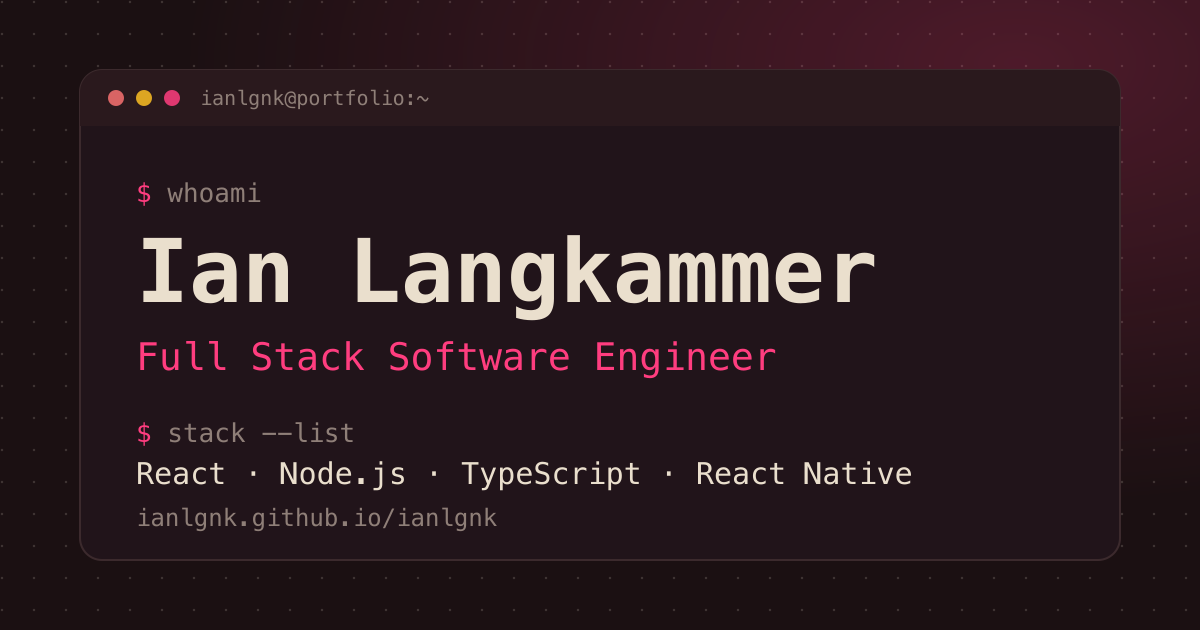
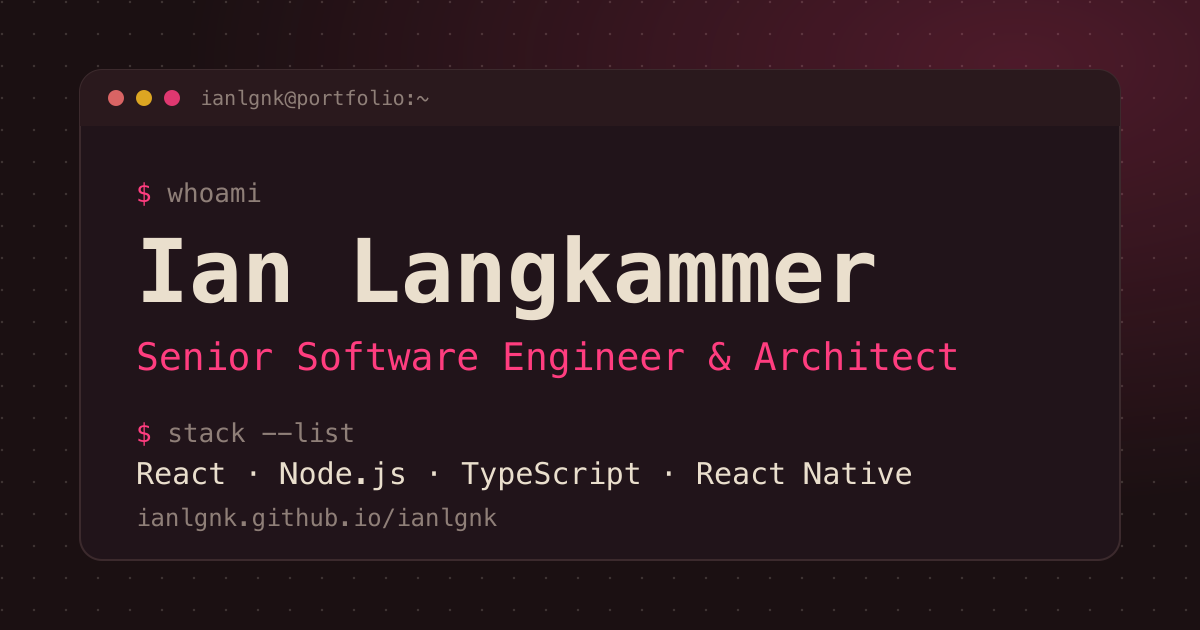
✨ feat: alinha site ao currículo (cargos, datas, stacks e nome do projeto)
- Cargos, períodos e stacks da experiência conforme o currículo em inglês
- Visão Tecnologia agora jun–out/2021 (5 meses); Saúde Agora júnior até set/2022
- Resumo, formação (IFNMG), título/descrição, footer e OG image com o cargo
  "Senior Software Engineer & Architect"
- Projeto 2 passa a se chamar "Pedro Porto Studios"
- Testes pinam os valores do currículo e a sincronia dos HTMLs com messages.ts

Changed region(s): [[0.0925, 0.5429, 0.8017, 0.6032]]

diff --git a/src/locales/cv-alignment.test.ts b/src/locales/cv-alignment.test.ts
@@ -1,0 +1,62 @@
+import { describe, expect, it } from 'vitest'
+
+import { experience } from '@/data/experience'
+
+import { messages } from './messages'
+
+const en = messages['en-US']
+const pt = messages['pt-BR']
+
+describe('experience copy matches the English résumé', () => {
+  it('uses the résumé roles', () => {
+    const roles = Object.fromEntries(Object.entries(en.experience.items).map(([id, i]) => [id, i.role]))
+    expect(roles).toEqual({
+      'beerpass-senior': 'Senior Software Engineer & Architect',
+      'beerpass-pleno': 'Software Engineer & Architect',
+      'saude-pleno': 'Software Engineer',
+      'saude-junior': 'Junior Software Engineer',
+      'visao-junior': 'Web Developer',
+    })
+  })
+
+  it('uses the résumé periods and durations', () => {
+    const periods = Object.fromEntries(Object.entries(en.experience.items).map(([id, i]) => [id, i.period]))
+    expect(periods).toEqual({
+      'beerpass-senior': 'Jan/2026 – present',
+      'beerpass-pleno': 'May/2023 – Jan/2026',
+      'saude-pleno': 'Oct/2022 – Apr/2023',
+      'saude-junior': 'Oct/2021 – Sep/2022',
+      'visao-junior': 'Jun/2021 – Oct/2021',
+    })
+    expect(en.experience.items['visao-junior'].duration).toBe('5 months')
+    expect(pt.experience.items['visao-junior'].duration).toBe('5 meses')
+    expect(pt.experience.items['visao-junior'].period).toBe('Jun/2021 – Out/2021')
+    expect(pt.experience.items['saude-junior'].period).toBe('Out/2021 – Set/2022')
+  })
+
+  it('lists the résumé stacks for Beerpass Club and Saúde Agora', () => {
+    const tech = (id: string) => experience.find((e) => e.id === id)?.technologies
+    expect(tech('beerpass-senior')).toEqual(['React Native', 'TypeScript', 'Kotlin', 'Java', 'Node.js', 'Firebase', 'Expo/EAS'])
+    expect(tech('beerpass-pleno')).toEqual(['React Native', 'React', 'TypeScript', 'Node.js', 'Firebase', 'Kotlin', 'Swift'])
+    expect(tech('saude-pleno')).toEqual(['Java', 'Hibernate', 'PostgreSQL', 'Vue.js', 'JavaScript'])
+    expect(tech('saude-junior')).toEqual(['Java', 'Hibernate', 'PostgreSQL', 'Vue.js', 'JavaScript'])
+  })
+
+  it('introduces Ian as a Senior Software Engineer and Architect everywhere', () => {
+    expect(en.about.summary.startsWith('Senior Software Engineer and Architect')).toBe(true)
+    expect(pt.about.summary.startsWith('Engenheiro de Software e Arquiteto Sênior')).toBe(true)
+    expect(en.document.home.description).toContain('Senior Software Engineer & Architect')
+    expect(en.footer.whoamiOut).toContain('senior software engineer & architect')
+    for (const text of [en.about.summary, pt.about.summary, en.document.home.description, pt.document.home.description]) {
+      expect(text).not.toMatch(/full stack/i)
+    }
+  })
+
+  it('names the technical degree as in the résumé (en-US)', () => {
+    expect(en.about.education[1]).toEqual({
+      title: 'Technical Degree in Web Development (integrated with high school)',
+      institution: 'Federal Institute of Northern Minas Gerais (IFNMG)',
+      period: '2017–2019',
+    })
+  })
+})

diff --git a/src/locales/experience-messages.ts b/src/locales/experience-messages.ts
@@ -15,32 +15,32 @@ export type ExperienceMessages = {
 export const experienceMessagesPtBR: ExperienceMessages = {
   items: {
     'beerpass-senior': {
-      role: 'Engenheiro de Software Full Stack Sênior',
+      role: 'Engenheiro de Software e Arquiteto Sênior',
       period: 'Jan/2026 – atual',
       responsibilities: '',
     },
     'beerpass-pleno': {
-      role: 'Engenheiro de Software Full Stack Pleno',
+      role: 'Engenheiro de Software e Arquiteto',
       period: 'Mai/2023 – Jan/2026',
       duration: '2 anos e 9 meses',
       responsibilities: '',
     },
     'saude-pleno': {
-      role: 'Desenvolvedor Full Stack Pleno',
+      role: 'Engenheiro de Software',
       period: 'Out/2022 – Abr/2023',
       duration: '7 meses',
       responsibilities: '',
     },
     'saude-junior': {
-      role: 'Desenvolvedor Full Stack Júnior',
-      period: 'Out/2021 – Out/2022',
+      role: 'Engenheiro de Software Júnior',
+      period: 'Out/2021 – Set/2022',
       duration: '1 ano',
       responsibilities: '',
     },
     'visao-junior': {
       role: 'Desenvolvedor Web',
-      period: 'Jun/2021 – Dez/2021',
-      duration: '7 meses',
+      period: 'Jun/2021 – Out/2021',
+      duration: '5 meses',
       responsibilities:
         'Desenvolvimento web com HTML, CSS e JavaScript, além de interfaces com React e TypeScript.',
     },
@@ -50,32 +50,32 @@ export const experienceMessagesPtBR: ExperienceMessages = {
 export const experienceMessagesEnUS: ExperienceMessages = {
   items: {
     'beerpass-senior': {
-      role: 'Senior Full Stack Software Engineer',
+      role: 'Senior Software Engineer & Architect',
       period: 'Jan/2026 – present',
       responsibilities: '',
     },
     'beerpass-pleno': {
-      role: 'Mid-level Full Stack Software Engineer',
+      role: 'Software Engineer & Architect',
       period: 'May/2023 – Jan/2026',
       duration: '2 years 9 months',
       responsibilities: '',
     },
     'saude-pleno': {
-      role: 'Mid-level Full Stack Developer',
+      role: 'Software Engineer',
       period: 'Oct/2022 – Apr/2023',
       duration: '7 months',
       responsibilities: '',
     },
     'saude-junior': {
-      role: 'Junior Full Stack Developer',
-      period: 'Oct/2021 – Oct/2022',
+      role: 'Junior Software Engineer',
+      period: 'Oct/2021 – Sep/2022',
       duration: '1 year',
       responsibilities: '',
     },
     'visao-junior': {
       role: 'Web Developer',
-      period: 'Jun/2021 – Dec/2021',
-      duration: '7 months',
+      period: 'Jun/2021 – Oct/2021',
+      duration: '5 months',
       responsibilities:
         'Web development with HTML, CSS, and JavaScript, plus interfaces with React and TypeScript.',
     },

diff --git a/sobre/index.html b/sobre/index.html
@@ -8,23 +8,23 @@
           document.documentElement.lang = "pt-BR";
           document.title = "Sobre · Ian Langkammer";
           var d = document.querySelector('meta[name="description"]');
-          if (d) d.setAttribute("content", "Trajetória, experiência e skills de Ian Langkammer, Engenheiro de Software Full Stack.");
+          if (d) d.setAttribute("content", "Trajetória, experiência e skills de Ian Langkammer, Engenheiro de Software e Arquiteto Sênior.");
         }
       } catch (_) {}
     </script>
     <link rel="icon" type="image/svg+xml" href="%BASE_URL%favicon.svg" />
     <meta name="viewport" content="width=device-width, initial-scale=1.0" />
     <meta name="theme-color" content="#1b1012" />
-    <meta name="description" content="Background, experience and skills of Ian Langkammer, Full Stack Software Engineer." />
+    <meta name="description" content="Background, experience and skills of Ian Langkammer, Senior Software Engineer &amp; Architect." />
     <meta property="og:type" content="website" />
     <meta property="og:site_name" content="Ian Langkammer" />
     <meta property="og:title" content="About · Ian Langkammer" />
-    <meta property="og:description" content="Background, experience and skills of Ian Langkammer, Full Stack Software Engineer." />
+    <meta property="og:description" content="Background, experience and skills of Ian Langkammer, Senior Software Engineer &amp; Architect." />
     <meta property="og:url" content="https://ianlgnk.github.io/ianlgnk/sobre/" />
     <meta property="og:image" content="https://ianlgnk.github.io/ianlgnk/og-image.png" />
     <meta property="og:image:width" content="1200" />
     <meta property="og:image:height" content="630" />
-    <meta property="og:image:alt" content="Ian Langkammer, Full Stack Software Engineer" />
+    <meta property="og:image:alt" content="Ian Langkammer, Senior Software Engineer &amp; Architect" />
     <meta name="twitter:card" content="summary_large_image" />
     <link rel="preconnect" href="https://fonts.googleapis.com" />
     <link rel="preconnect" href="https://fonts.gstatic.com" crossorigin />

diff --git a/index.html b/index.html
@@ -8,23 +8,23 @@
           document.documentElement.lang = "pt-BR";
           document.title = "Ian Langkammer · Portfólio";
           var d = document.querySelector('meta[name="description"]');
-          if (d) d.setAttribute("content", "Portfólio de Ian Langkammer — Engenheiro de Software Full Stack, Belo Horizonte.");
+          if (d) d.setAttribute("content", "Portfólio de Ian Langkammer — Engenheiro de Software e Arquiteto Sênior, Belo Horizonte.");
         }
       } catch (_) {}
     </script>
     <link rel="icon" type="image/svg+xml" href="%BASE_URL%favicon.svg" />
     <meta name="viewport" content="width=device-width, initial-scale=1.0" />
     <meta name="theme-color" content="#1b1012" />
-    <meta name="description" content="Portfolio of Ian Langkammer — Full Stack Software Engineer, Belo Horizonte." />
+    <meta name="description" content="Portfolio of Ian Langkammer — Senior Software Engineer &amp; Architect, Belo Horizonte." />
     <meta property="og:type" content="website" />
     <meta property="og:site_name" content="Ian Langkammer" />
     <meta property="og:title" content="Ian Langkammer · Portfolio" />
-    <meta property="og:description" content="Portfolio of Ian Langkammer — Full Stack Software Engineer, Belo Horizonte." />
+    <meta property="og:description" content="Portfolio of Ian Langkammer — Senior Software Engineer &amp; Architect, Belo Horizonte." />
     <meta property="og:url" content="https://ianlgnk.github.io/ianlgnk/" />
     <meta property="og:image" content="https://ianlgnk.github.io/ianlgnk/og-image.png" />
     <meta property="og:image:width" content="1200" />
     <meta property="og:image:height" content="630" />
-    <meta property="og:image:alt" content="Ian Langkammer, Full Stack Software Engineer" />
+    <meta property="og:image:alt" content="Ian Langkammer, Senior Software Engineer &amp; Architect" />
     <meta name="twitter:card" content="summary_large_image" />
     <link rel="preconnect" href="https://fonts.googleapis.com" />
     <link rel="preconnect" href="https://fonts.gstatic.com" crossorigin />

diff --git a/src/locales/messages.ts b/src/locales/messages.ts
@@ -107,7 +107,7 @@ export const messages: Record<Locale, Messages> = {
       github: 'GitHub',
     },
     footer: {
-      whoamiOut: 'ianlgnk — engenheiro full stack · BH, MG',
+      whoamiOut: 'ianlgnk — engenheiro de software sênior e arquiteto · BH, MG',
       uptimePrefix: 'sessão ativa há',
       exit: '[ SESSÃO ENCERRADA ]',
     },
@@ -118,12 +118,12 @@ export const messages: Record<Locale, Messages> = {
       home: {
         title: 'Ian Langkammer · Portfólio',
         description:
-          'Portfólio de Ian Langkammer — Engenheiro de Software Full Stack, Belo Horizonte.',
+          'Portfólio de Ian Langkammer — Engenheiro de Software e Arquiteto Sênior, Belo Horizonte.',
       },
       about: {
         title: 'Sobre · Ian Langkammer',
         description:
-          'Trajetória, experiência e skills de Ian Langkammer, Engenheiro de Software Full Stack.',
+          'Trajetória, experiência e skills de Ian Langkammer, Engenheiro de Software e Arquiteto Sênior.',
       },
     },
   },
@@ -178,7 +178,7 @@ export const messages: Record<Locale, Messages> = {
       github: 'GitHub',
     },
     footer: {
-      whoamiOut: 'ianlgnk — full stack engineer · BH, MG',
+      whoamiOut: 'ianlgnk — senior software engineer & architect · BH, MG',
       uptimePrefix: 'session active for',
       exit: '[ SESSION ENDED ]',
     },
@@ -189,12 +189,12 @@ export const messages: Record<Locale, Messages> = {
       home: {
         title: 'Ian Langkammer · Portfolio',
         description:
-          'Portfolio of Ian Langkammer — Full Stack Software Engineer, Belo Horizonte.',
+          'Portfolio of Ian Langkammer — Senior Software Engineer & Architect, Belo Horizonte.',
       },
       about: {
         title: 'About · Ian Langkammer',
         description:
-          'Background, experience and skills of Ian Langkammer, Full Stack Software Engineer.',
+          'Background, experience and skills of Ian Langkammer, Senior Software Engineer & Architect.',
       },
     },
   },

diff --git a/src/locales/about-messages.ts b/src/locales/about-messages.ts
@@ -26,7 +26,7 @@ export const aboutMessagesPtBR: AboutMessages = {
   bioTitle: 'Sobre',
   skillsTitle: 'Skills',
   summary:
-    'Engenheiro de Software Full Stack com sólida base em tecnologias web, mobile e experiência prática desde os 15 anos. Atua em projetos com foco em front-end e back-end, utilizando frameworks modernos e metodologias ágeis. Entusiasta de boas práticas de código, arquitetura limpa e aprendizado contínuo.',
+    'Engenheiro de Software e Arquiteto Sênior com mais de 5 anos de experiência construindo produtos mobile, web e embarcados em terminais POS de ponta a ponta, da arquitetura e do código ao deploy e ao monitoramento. Forte em React Native, TypeScript e Node.js, com experiência nativa em Kotlin, Java e Swift.',
   sinceLine: 'Programo desde os 15 anos.',
   education: [
     {
@@ -56,7 +56,7 @@ export const aboutMessagesEnUS: AboutMessages = {
   bioTitle: 'About',
   skillsTitle: 'Skills',
   summary:
-    'Full Stack Software Engineer with a strong foundation in web and mobile technologies and hands-on experience since age 15. Works on projects focused on front-end and back-end, using modern frameworks and agile practices. Passionate about clean code, solid architecture, and continuous learning.',
+    'Senior Software Engineer and Architect with 5+ years of experience building mobile, web and embedded-POS products end to end, from architecture and code to deployment and monitoring. Strong in React Native, TypeScript and Node.js, with native Kotlin, Java and Swift experience.',
   sinceLine: 'Programming since age 15.',
   education: [
     {
@@ -65,8 +65,8 @@ export const aboutMessagesEnUS: AboutMessages = {
       period: '2020–2025',
     },
     {
-      title: 'Technical degree in Internet Informatics',
-      institution: 'IFNMG, Teófilo Otoni campus',
+      title: 'Technical Degree in Web Development (integrated with high school)',
+      institution: 'Federal Institute of Northern Minas Gerais (IFNMG)',
       period: '2017–2019',
     },
     {

diff --git a/src/locales/html-sync.test.ts b/src/locales/html-sync.test.ts
@@ -1,0 +1,34 @@
+/// <reference types="node" />
+import { readFileSync } from 'node:fs'
+import path from 'node:path'
+import { describe, expect, it } from 'vitest'
+
+import { messages } from './messages'
+
+const root = path.resolve(import.meta.dirname, '../..')
+const read = (file: string) => readFileSync(path.join(root, file), 'utf8')
+const decode = (s: string) => s.replace(/&amp;/g, '&')
+
+const pages = [
+  { file: 'index.html', key: 'home' },
+  { file: 'sobre/index.html', key: 'about' },
+] as const
+
+describe('HTML head stays in sync with messages', () => {
+  for (const { file, key } of pages) {
+    it(`${file}: en-US title, description and og:description`, () => {
+      const html = read(file)
+      const en = messages['en-US'].document[key]
+      expect(decode(html.match(/<title>([^<]*)<\/title>/)![1])).toBe(en.title)
+      expect(decode(html.match(/<meta name="description" content="([^"]*)"/)![1])).toBe(en.description)
+      expect(decode(html.match(/<meta property="og:description" content="([^"]*)"/)![1])).toBe(en.description)
+    })
+
+    it(`${file}: pt-BR title and description in the inline script`, () => {
+      const html = read(file)
+      const pt = messages['pt-BR'].document[key]
+      expect(html.match(/document\.title = "([^"]*)"/)![1]).toBe(pt.title)
+      expect(html.match(/setAttribute\("content", "([^"]*)"\)/)![1]).toBe(pt.description)
+    })
+  }
+})

diff --git a/src/data/experience.ts b/src/data/experience.ts
@@ -21,26 +21,26 @@ export const experience: readonly ExperienceEntry[] = [
   {
     id: 'beerpass-senior',
     company: 'Beerpass Club',
-    technologies: ['React Native', 'Angular', 'React', 'Next', 'Node.js', 'TypeScript', 'Kotlin', 'Firebase', 'AWS'],
+    technologies: ['React Native', 'TypeScript', 'Kotlin', 'Java', 'Node.js', 'Firebase', 'Expo/EAS'],
     current: true,
     since: { year: 2026, month: 1 },
   },
   {
     id: 'beerpass-pleno',
     company: 'Beerpass Club',
-    technologies: ['React Native', 'Angular', 'React', 'Next', 'Node.js', 'TypeScript', 'Kotlin', 'Firebase', 'AWS'],
+    technologies: ['React Native', 'React', 'TypeScript', 'Node.js', 'Firebase', 'Kotlin', 'Swift'],
     current: false,
   },
   {
     id: 'saude-pleno',
     company: 'Saúde Agora',
-    technologies: ['Vue', 'Hibernate', 'Node.js', 'JavaScript', 'TypeScript', 'Java', 'PostgreSQL'],
+    technologies: ['Java', 'Hibernate', 'PostgreSQL', 'Vue.js', 'JavaScript'],
     current: false,
   },
   {
     id: 'saude-junior',
     company: 'Saúde Agora',
-    technologies: ['Vue', 'Hibernate', 'Node.js', 'JavaScript', 'TypeScript', 'Java', 'PostgreSQL'],
+    technologies: ['Java', 'Hibernate', 'PostgreSQL', 'Vue.js', 'JavaScript'],
     current: false,
   },
   {

diff --git a/src/data/projects.ts b/src/data/projects.ts
@@ -35,7 +35,7 @@ export const projects: readonly Project[] = [
   },
   {
     slug: 'pedro-porto-design',
-    name: 'Pedro Porto Design',
+    name: 'Pedro Porto Studios',
     tags: ['React 19', 'TypeScript', 'Tailwind', 'Firebase', 'Mercado Pago'],
     links: [{ kind: 'site', href: 'https://pedroportodesign.online' }],
   },

diff --git a/src/data/projects.test.ts b/src/data/projects.test.ts
@@ -51,3 +51,9 @@ describe('projects', () => {
     }
   })
 })
+
+describe('projects (names as in the résumé)', () => {
+  it('calls the Pedro Porto project "Pedro Porto Studios"', () => {
+    expect(bySlug('pedro-porto-design')?.name).toBe('Pedro Porto Studios')
+  })
+})
